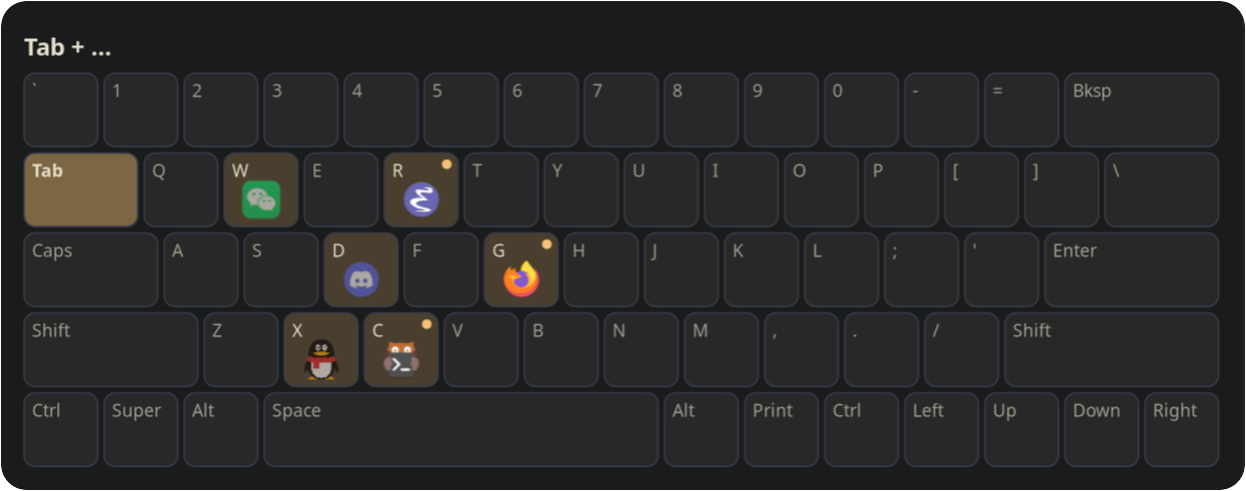
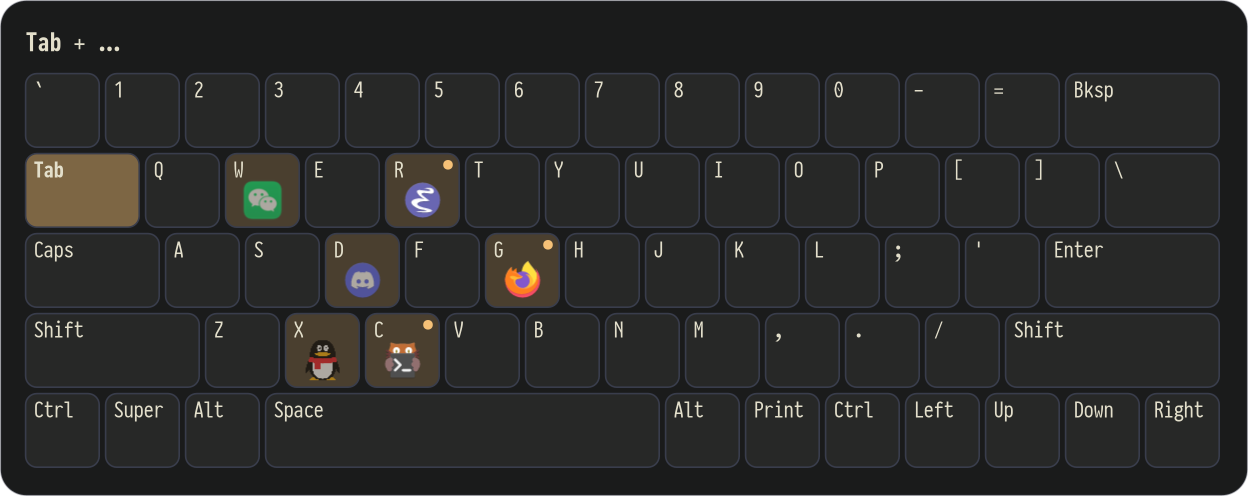
Make key labels larger and fully opaque
Small, thin, translucent letters read as blurry. Retake the README screenshots
from the overlay's own buffer, as grim rescales at a fractional scale.

diff --git a/src/keyboard.rs b/src/keyboard.rs
@@ -113,18 +113,13 @@ pub fn paint(
         } else {
             label.to_string()
         };
-        let color = if held || used {
-            t.on_surface
-        } else {
-            t.on_surface.alpha(0.65)
-        };
-        let l = layout(&text, 11.0, held);
-        color.set(cr);
+        let l = layout(&text, 13.0, held);
+        t.on_surface.set(cr);
         cr.move_to(x + 5.0, y + 3.0);
         pangocairo::functions::show_layout(cr, &l);
 
         if let Some(bound) = bound {
-            let l = layout(bound, 11.5, true);
+            let l = layout(bound, 13.0, true);
             l.set_width(((w - 6.0) * pango::SCALE as f64) as i32);
             l.set_ellipsize(pango::EllipsizeMode::End);
             l.set_alignment(pango::Alignment::Center);
